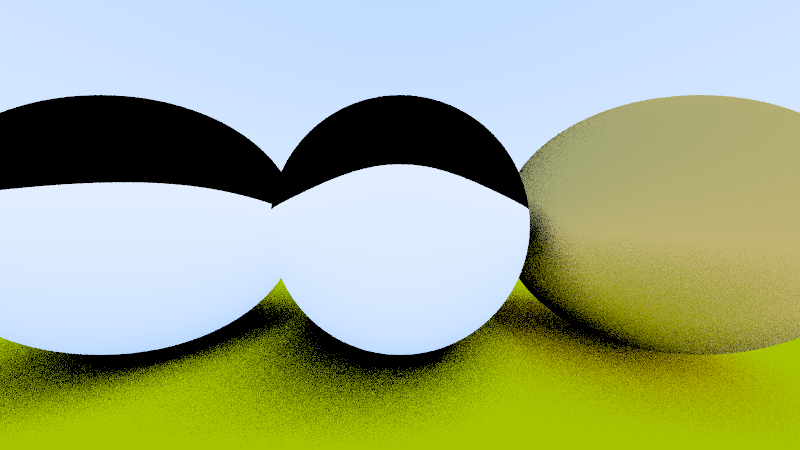
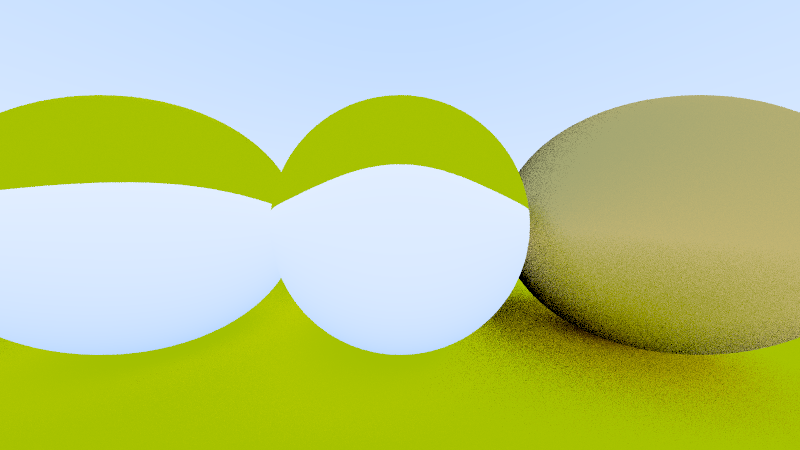
fix wrong glass reflextion (not enough reflextion depth)

Changed region(s): [[0.0, 0.1867, 1.0, 0.9644]]

diff --git a/include/utils.hpp b/include/utils.hpp
@@ -18,7 +18,7 @@ inline cv::Vec3d refract(const cv::Vec3d& uv, const cv::Vec3d& n, double etai_ov
 {
     auto cos_theta = fmin((-uv).dot(n), 1.0);
 
-    std::cout << "cos_theta : " << cos_theta << std::endl;
+    // std::cout << "cos_theta : " << cos_theta << std::endl;
 
     cv::Vec3d r_out_perp = etai_over_etat * (uv + cos_theta * n); 
     cv::Vec3d r_out_parallel = -sqrt(fabs(1.0 - r_out_perp.dot(r_out_perp))) * n;

diff --git a/src/material.cpp b/src/material.cpp
@@ -40,8 +40,6 @@ bool Dialectric::scatter(const Ray& r_in, const HitRecord& record, Color& attenu
 
     cv::Vec3d unit_direction = unit_vector(r_in.direction());
 
-    std::cout << "unit_direction: length : " << unit_direction.dot(unit_direction) << std::endl;
-
     cv::Vec3d refracted = refract(unit_direction, record.normal, refraction_ratio);
 
     scattered = Ray(record.p, refracted);

diff --git a/include/camera.hpp b/include/camera.hpp
@@ -13,7 +13,7 @@ public:
     double aspect_ratio = 4.0 / 3.0;
     int img_width = 800;
     int sample_per_pixel = 10;
-    int max_depth = 3;
+    int max_depth = 50;
 
     void render(const Hittable& world);
 
